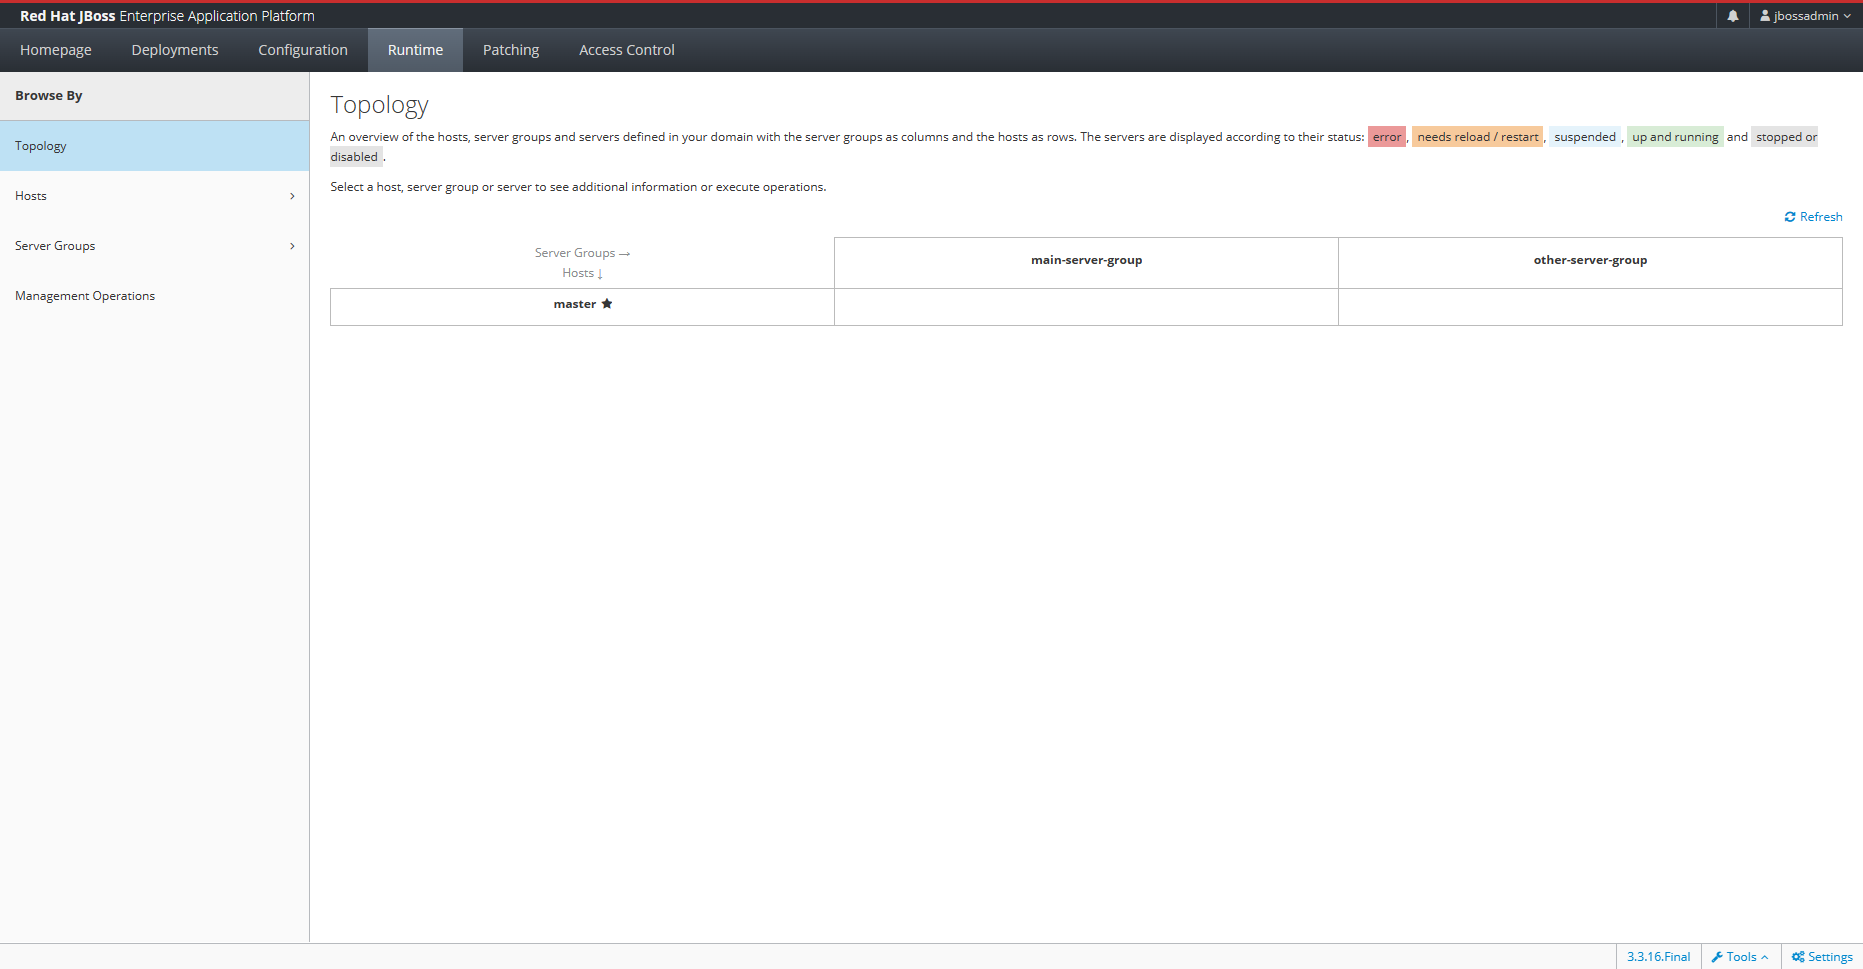
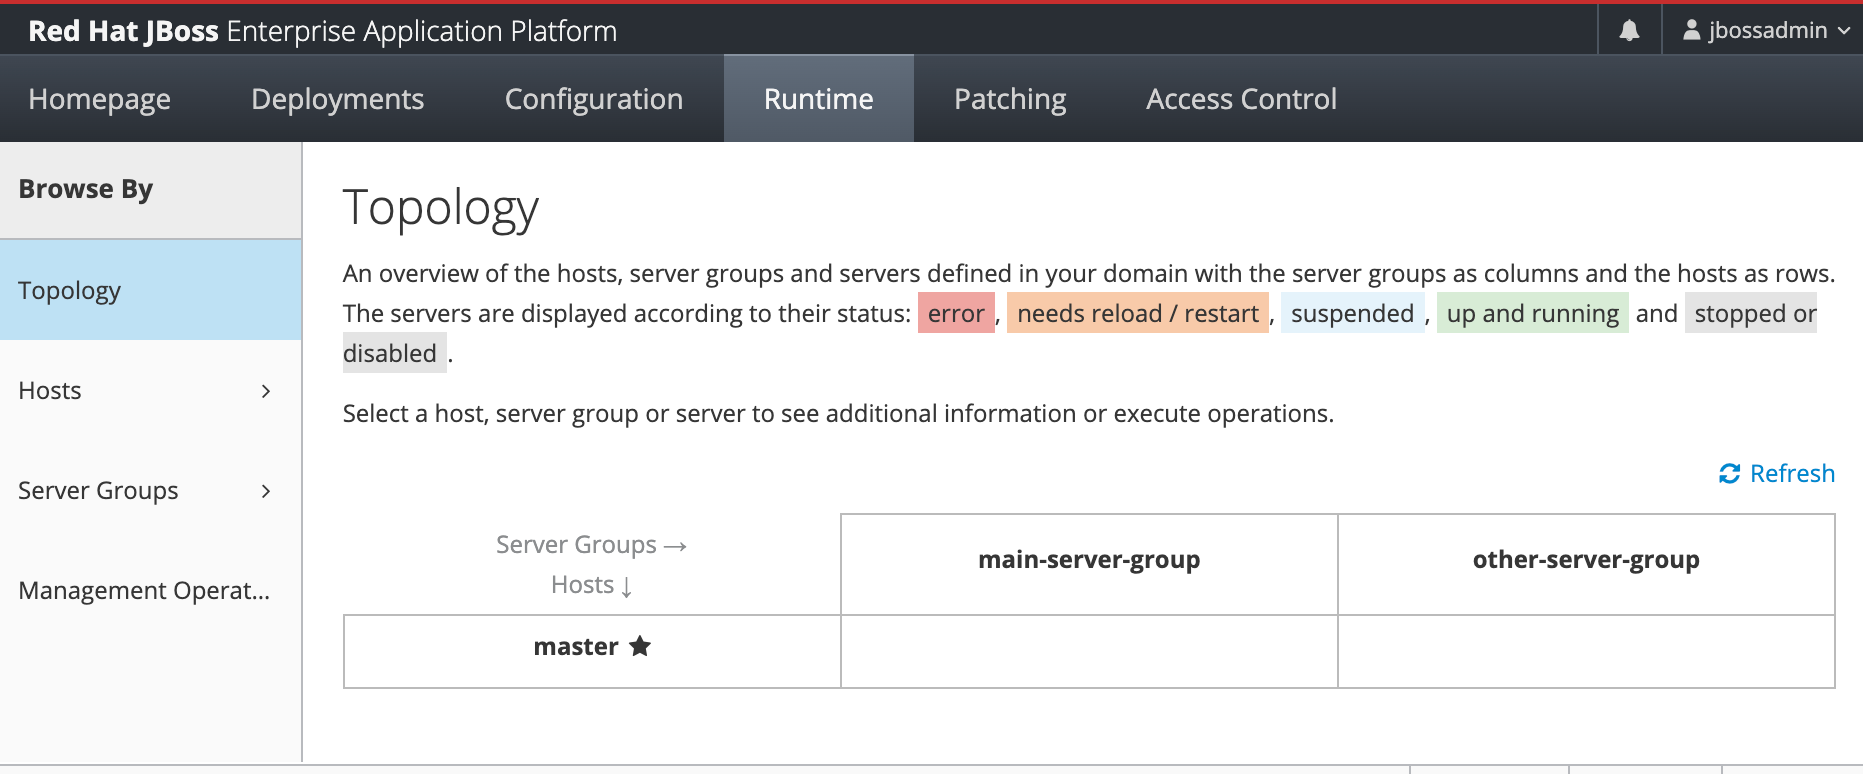
On branch eaponvmmanual Up to, but not including Expose Red Hat JBoss EAP cluster with Azure Application Gateway modified:   articles/java/migration/media/migrate-jboss-eap-to-vm-manually/adminconsole.png modified:   articles/java/migration/media/migrate-jboss-eap-to-vm-manually/topology_only_with_a

diff --git a/articles/java/migration/migrate-jboss-eap-to-azure-vm-manually.md b/articles/java/migration/migrate-jboss-eap-to-azure-vm-manually.md
@@ -492,8 +492,10 @@ You should see the following output.
 
 This tutorial uses the Red Hat JBoss EAP management CLI commands to configure the domain controller. For more information, see [Management CLI Guide](https://access.redhat.com/documentation/en-us/red_hat_jboss_enterprise_application_platform/7.4/html-single/management_cli_guide/index).
 
-Setup the domain controller configuration on `adminVM` with the following steps, assuming you're now on `adminVM` and logged in with the `azureuser` user.
+The following steps set up the domain controller configuration on `adminVM`. Use ssh to connect to the `adminVM` as the `azureuser` user. Recall that the public IP address of the adminVM was captured above into the `ADMIN_VM_PUBLIC_IP` environment variable.
+
 First, configure the HA profile and JGroups using **AZURE_PING** protocol.
+
 ```bash
 HOST_VM_IP=$(hostname -I)
 
@@ -518,7 +520,7 @@ sudo -u jboss $EAP_HOME/wildfly/bin/jboss-cli.sh --echo-command \
 '/profile=ha/subsystem=jgroups/channel=ee:write-attribute(name="stack", value="tcp")',\
 '/server-group=main-server-group:write-attribute(name="profile", value="ha")',\
 '/server-group=main-server-group:write-attribute(name="socket-binding-group", value="ha-sockets")',\
-"/host=master/subsystem=elytron/http-authentication-factory=management-http-authentication:write-attribute(name=mechanism-configurations,value='[{mechanism-name=DIGEST,mechanism-realm-configurations='[{realm-name=ManagementRealm}]'}]')",\
+"/host=master/subsystem=elytron/http-authentication-factory=management-http-authentication:write-attribute(name=mechanism-configurations,value=[{mechanism-name=DIGEST,mechanism-realm-configurations=[{realm-name=ManagementRealm}]}])",\
 "/host=master/interface=unsecure:add(inet-address=${HOST_VM_IP})",\
 "/host=master/interface=management:write-attribute(name=inet-address, value=${HOST_VM_IP})",\
 "/host=master/interface=public:add(inet-address=${HOST_VM_IP})"
@@ -527,7 +529,21 @@ sudo -u jboss $EAP_HOME/wildfly/bin/jboss-cli.sh --echo-command \
 cp $EAP_HOME/wildfly/domain/configuration/domain.xml /tmp/domain.xml
 ```
 
-Then, configure the JBoss server and setup EAP service.
+The last stanza of output should look similar to the following. If it does not, troubleshoot and resolve the problem before continuing.
+
+```bash
+[domain@embedded /] /host=master/interface=public:add(inet-address=192.168.0.4 )
+{
+    "outcome" => "success",
+    "result" => undefined,
+    "server-groups" => undefined,
+    "response-headers" => {"process-state" => "reload-required"}
+}
+02:05:55,019 INFO  [org.jboss.as] (MSC service thread 1-1) WFLYSRV0050: JBoss EAP 7.4.10.GA (WildFly Core 15.0.25.Final-redhat-00001) stopped in 28ms
+```
+
+Then, configure the JBoss server and setup the EAP service.
+
 ```bash
 # Configure the JBoss server and setup EAP service
 echo 'WILDFLY_HOST_CONFIG=host-master.xml' | sudo tee -a $EAP_RPM_CONF_DOMAIN
@@ -538,7 +554,17 @@ JBOSS_EAP_PASSWORD=Secret123456
 sudo $EAP_HOME/wildfly/bin/add-user.sh  -u $JBOSS_EAP_USER -p $JBOSS_EAP_PASSWORD -g 'guest,mgmtgroup'
 ```
 
+The output should look similar to the following.
+
+```bash
+Added user 'jbossadmin' to file '/etc/opt/rh/eap7/wildfly/standalone/mgmt-users.properties'
+Added user 'jbossadmin' to file '/etc/opt/rh/eap7/wildfly/domain/mgmt-users.properties'
+Added user 'jbossadmin' with groups guest,mgmtgroup to file '/etc/opt/rh/eap7/wildfly/standalone/mgmt-groups.properties'
+Added user 'jbossadmin' with groups guest,mgmtgroup to file '/etc/opt/rh/eap7/wildfly/domain/mgmt-groups.properties'
+```
+
 Finally, start the EAP service.
+
 ```bash
 # Start the JBoss server and setup EAP service
 sudo systemctl enable eap7-domain.service
@@ -555,17 +581,45 @@ sudo systemctl restart eap7-domain.service
 systemctl status eap7-domain.service 
 ```
 
-After start the Red Hat JBoss EAP service, you will be able to access the management console via: `http://<adminVM_public_IP>:9990` in your web browser, after login with the configured username: `jbossadmin` and password `Secret123456` you should be able to see the management console like below:
+The output should look similar to the following.
+
+```bash
+● eap7-domain.service - JBoss EAP (domain mode)
+   Loaded: loaded (/usr/lib/systemd/system/eap7-domain.service; enabled; vendor>
+   Active: active (running) since Thu 2023-03-30 02:11:44 UTC; 5s ago
+ Main PID: 3855 (scl)
+    Tasks: 82 (limit: 20612)
+   Memory: 232.4M
+   CGroup: /system.slice/eap7-domain.service
+           ├─3855 /usr/bin/scl enable eap7 -- /opt/rh/eap7/root/usr/share/wildf>
+           ├─3856 /bin/bash /var/tmp/sclfYu7yW
+           ├─3858 /bin/sh /opt/rh/eap7/root/usr/share/wildfly/bin/launch.sh /us>
+           ├─3862 /bin/sh /opt/rh/eap7/root/usr/share/wildfly/bin/domain.sh --h>
+           ├─3955 /usr/lib/jvm/jre/bin/java -D[Process Controller] -server -Xms>
+           └─3967 /usr/lib/jvm/jre/bin/java -D[Host Controller] -Dorg.jboss.boo>
+
+Mar 30 02:11:44 adminVM systemd[1]: Started JBoss EAP (domain mode).
+```
+
+Type **q** to exit the pager.
+
+After starting the Red Hat JBoss EAP service, you will be able to access the management console via: `http://<adminVM_public_IP>:9990` in your web browser.  Sign in with the configured username: `jbossadmin` and password `Secret123456`.
 
 :::image type="content" source="media/migrate-jboss-eap-to-vm-manually/adminconsole.png" alt-text="Screenshot of domain controller management console." lightbox="media/migrate-jboss-eap-to-vm-manually/adminconsole.png":::
 
-Select **Runtime** tab and then browser the **Topology** you should see that for now our cluster only contains one domain controller:
+Select **Runtime** tab. In the left navigation pane, select **Topology**. You should see that for now our cluster only contains one domain controller:
 
 :::image type="content" source="media/migrate-jboss-eap-to-vm-manually/topology_only_with_admin.png" alt-text="Screenshot of cluster topology with domain controller only." lightbox="media/migrate-jboss-eap-to-vm-manually/topology_only_with_admin.png":::
 
 #### Configure host controllers(worker nodes)
 
-Assuming you're on `mspVM1` and logged in with the `azureuser` user, follow the instructions to apply host controller configuration to `mspVM1`.
+Use ssh to connect to the `mspVM1` as the `azureuser` user. Get the public IP address of the VM with this command.
+
+```bash
+az vm show --resource-group abc1110rg --name mspVM1 --show-details --query publicIps
+```
+
+These steps set up the host controller on `mspVM1`.
 
 ```bash
 # environment variables
@@ -596,13 +650,26 @@ sudo -u jboss $EAP_HOME/wildfly/bin/jboss-cli.sh --echo-command \
 "/host=${HOST_VM_NAME_LOWERCASES}/server-config=server-two:remove",\
 "/host=${HOST_VM_NAME_LOWERCASES}/server-config=${HOST_VM_NAME_LOWERCASES}-server0:add(group=main-server-group)",\
 "/host=${HOST_VM_NAME_LOWERCASES}/subsystem=elytron/authentication-configuration=slave:add(authentication-name=${JBOSS_EAP_USER}, credential-reference={clear-text=${JBOSS_EAP_PASSWORD}})",\
-"/host=${HOST_VM_NAME_LOWERCASES}/subsystem=elytron/authentication-context=slave-context:add(match-rules='[{authentication-configuration=slave}]')",\
+"/host=${HOST_VM_NAME_LOWERCASES}/subsystem=elytron/authentication-context=slave-context:add(match-rules=[{authentication-configuration=slave}])",\
 "/host=${HOST_VM_NAME_LOWERCASES}:write-attribute(name=domain-controller.remote.username, value=${JBOSS_EAP_USER})",\
 "/host=${HOST_VM_NAME_LOWERCASES}:write-attribute(name=domain-controller.remote, value={host=${DOMAIN_CONTROLLER_PRIVATE_IP}, port=9990, protocol=remote+http, authentication-context=slave-context})",\
 "/host=${HOST_VM_NAME_LOWERCASES}/core-service=discovery-options/static-discovery=primary:write-attribute(name=host, value=${DOMAIN_CONTROLLER_PRIVATE_IP})",\
 "/host=${HOST_VM_NAME_LOWERCASES}/interface=unsecured:add(inet-address=${HOST_VM_IP})",\
 "/host=${HOST_VM_NAME_LOWERCASES}/interface=management:write-attribute(name=inet-address, value=${HOST_VM_IP})",\
 "/host=${HOST_VM_NAME_LOWERCASES}/interface=public:write-attribute(name=inet-address, value=${HOST_VM_IP})"
+```
+
+The last stanza of output should look similar to the following. If it does not, troubleshoot and resolve the problem before continuing.
+
+```bash
+[domain@embedded /] /host=mspvm1/interface=public:write-attribute(name=inet-address, value=192.168.0.5 )
+{
+    "outcome" => "success",
+    "result" => undefined,
+    "server-groups" => undefined,
+    "response-headers" => {"process-state" => "reload-required"}
+}
+02:58:59,388 INFO  [org.jboss.as] (MSC service thread 1-2) WFLYSRV0050: JBoss EAP 7.4.10.GA (WildFly Core 15.0.25.Final-redhat-00001) stopped in 58ms
 ```
 
 Then, configure the JBoss server and setup EAP service.
@@ -624,7 +691,39 @@ sudo systemctl restart eap7-domain.service
 systemctl status eap7-domain.service 
 ```
 
-Repeat the above steps on `mspVM2`, after two host controller are connected to `adminVM`, you should be able to see the cluster topology:
+The output should look similar to the following.
+
+```bash
+● eap7-domain.service - JBoss EAP (domain mode)
+   Loaded: loaded (/usr/lib/systemd/system/eap7-domain.service; enabled; vendor>
+   Active: active (running) since Thu 2023-03-30 03:02:15 UTC; 7s ago
+ Main PID: 9699 (scl)
+    Tasks: 51 (limit: 20612)
+   Memory: 267.6M
+   CGroup: /system.slice/eap7-domain.service
+           ├─9699 /usr/bin/scl enable eap7 -- /opt/rh/eap7/root/usr/share/wildf>
+           ├─9700 /bin/bash /var/tmp/sclgJ1hRD
+           ├─9702 /bin/sh /opt/rh/eap7/root/usr/share/wildfly/bin/launch.sh /us>
+           ├─9706 /bin/sh /opt/rh/eap7/root/usr/share/wildfly/bin/domain.sh --h>
+           ├─9799 /usr/lib/jvm/jre/bin/java -D[Process Controller] -server -Xms>
+           └─9811 /usr/lib/jvm/jre/bin/java -D[Host Controller] -Dorg.jboss.boo>
+
+Mar 30 03:02:15 mspVM1 systemd[1]: Started JBoss EAP (domain mode).
+```
+
+Type **q** to exit the pager.
+
+Exit from the ssh connection by typing `exit`.
+
+Use ssh to connect to the `mspVM2` as the `azureuser` user. Get the public IP address of the VM with this command.
+
+```bash
+az vm show --resource-group abc1110rg --name mspVM2 --show-details --query publicIps
+```
+
+Repeat the above steps on `mspVM2`, and then exit the ssh connection by typing `exit`.
+
+After two host controller are connected to `adminVM`, you should be able to see the cluster topology:
 
 :::image type="content" source="media/migrate-jboss-eap-to-vm-manually/topology_with_cluster.png" alt-text="Screenshot of cluster topology with all hosts." lightbox="media/migrate-jboss-eap-to-vm-manually/topology_with_cluster.png":::
 
